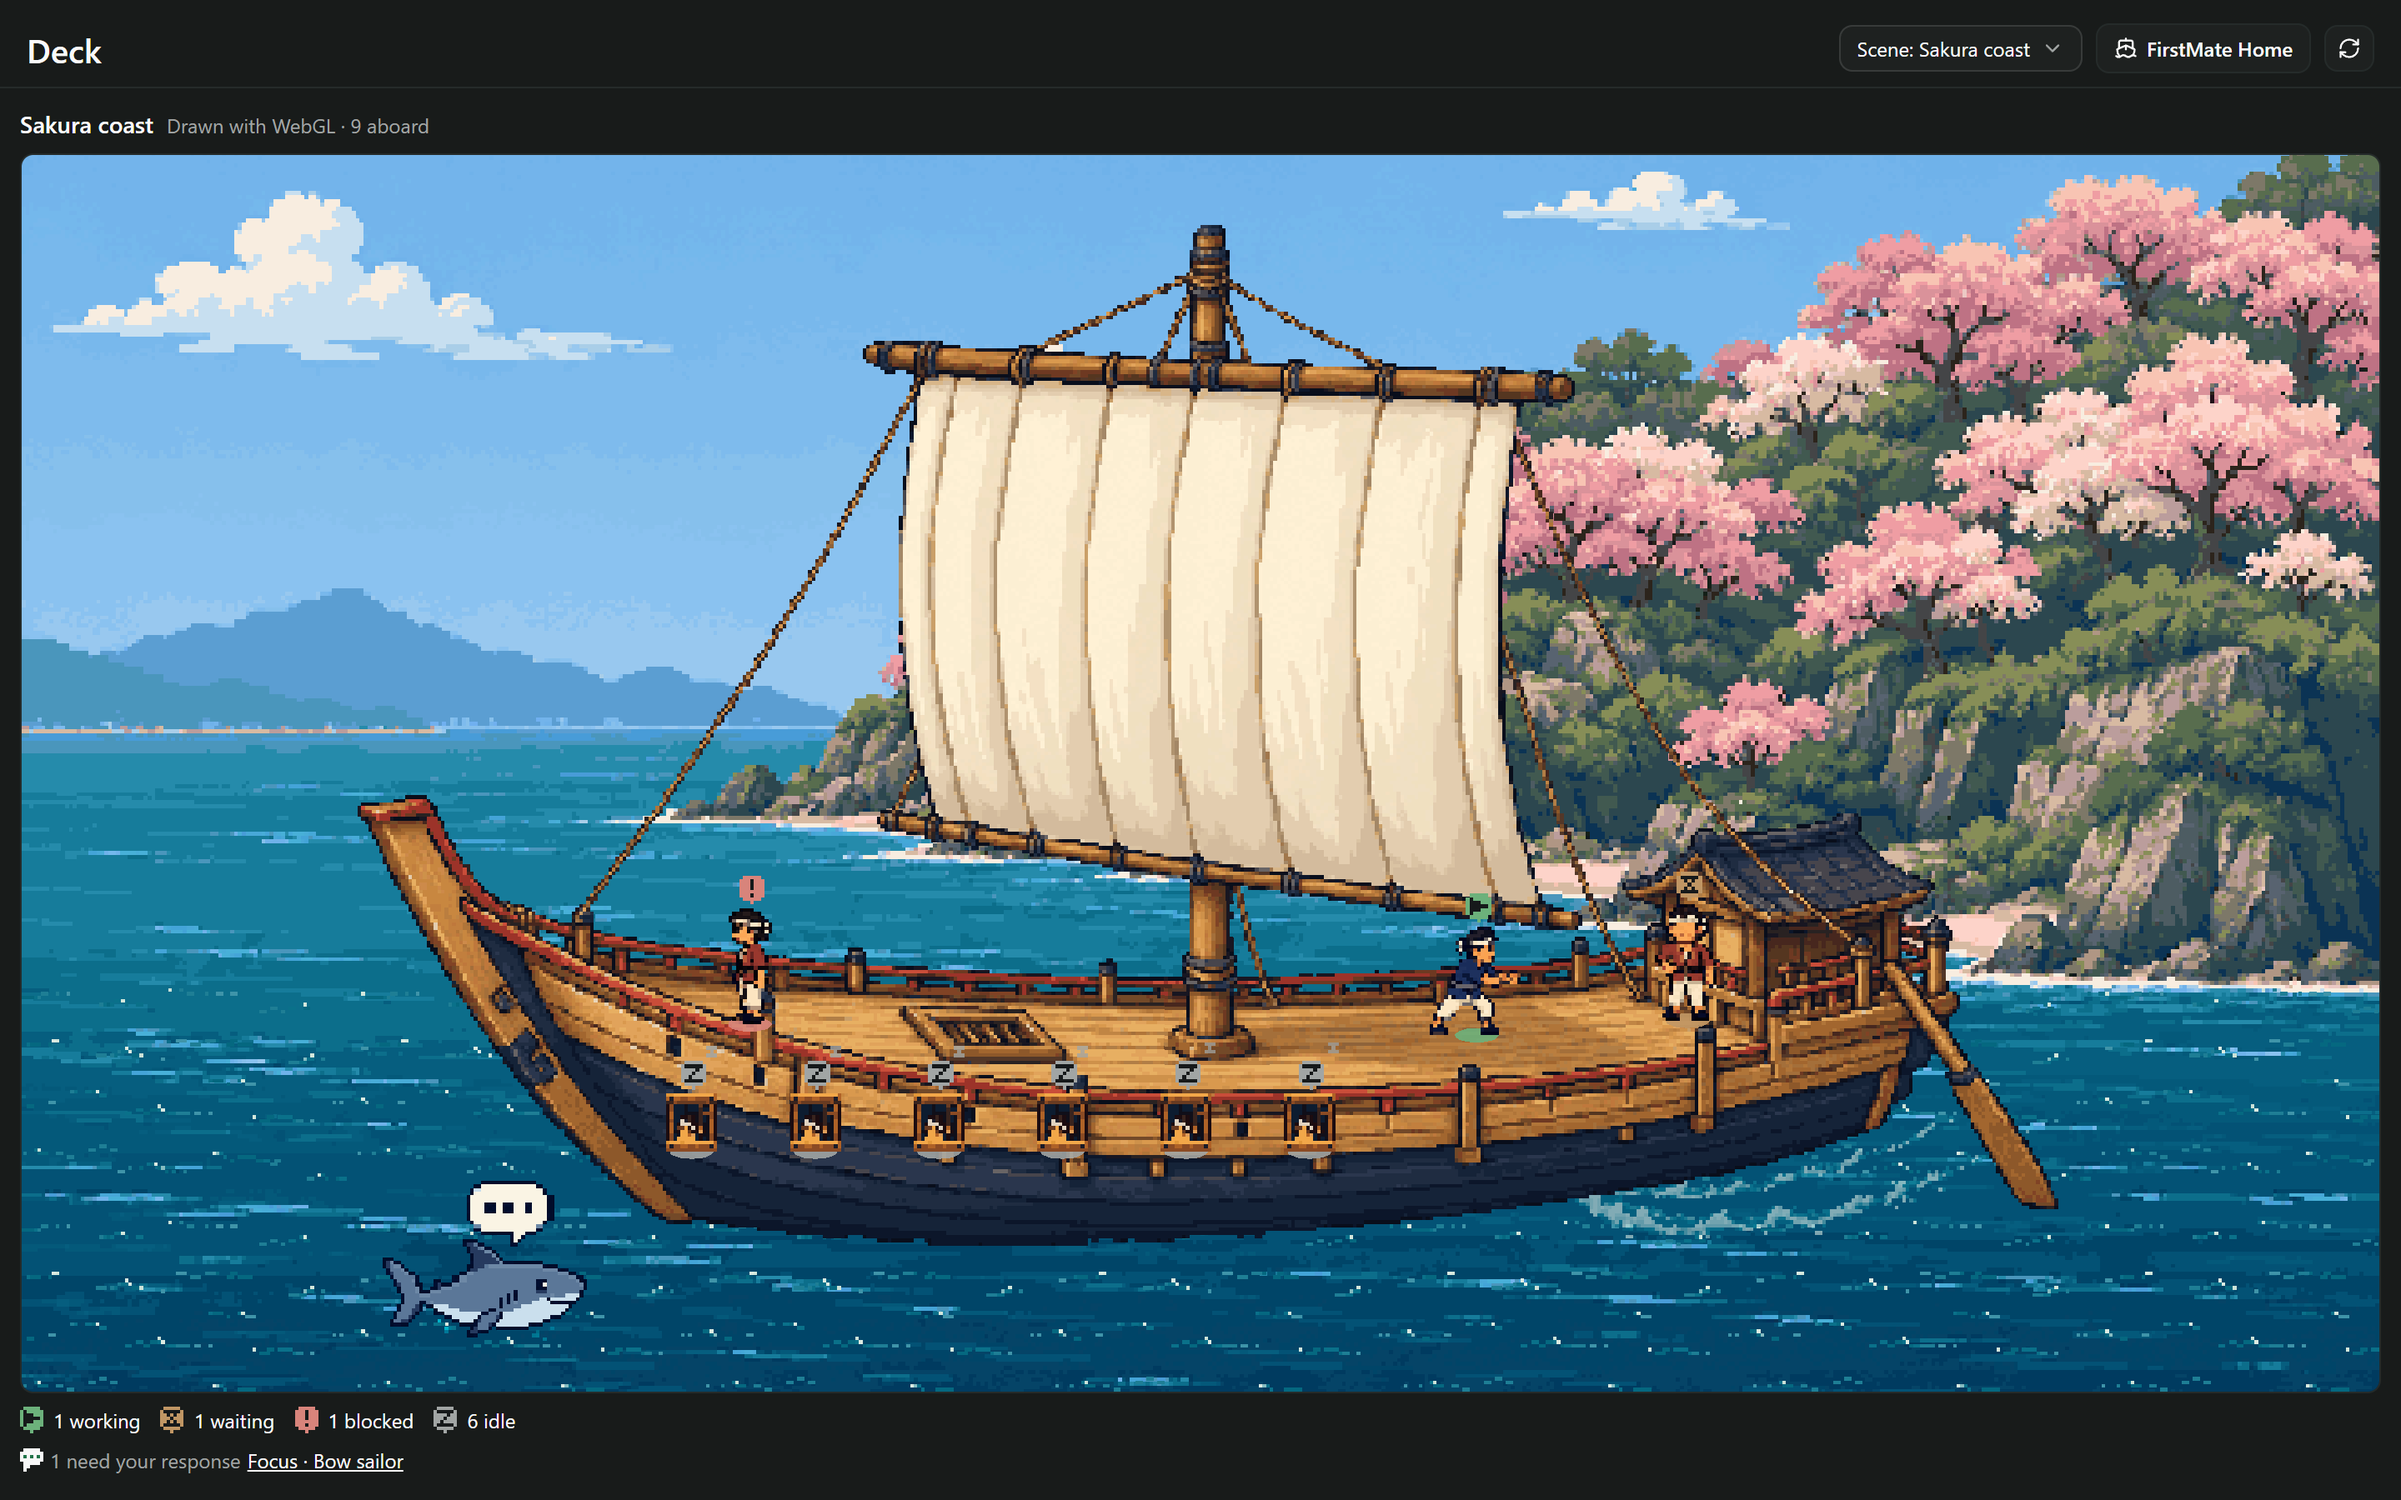
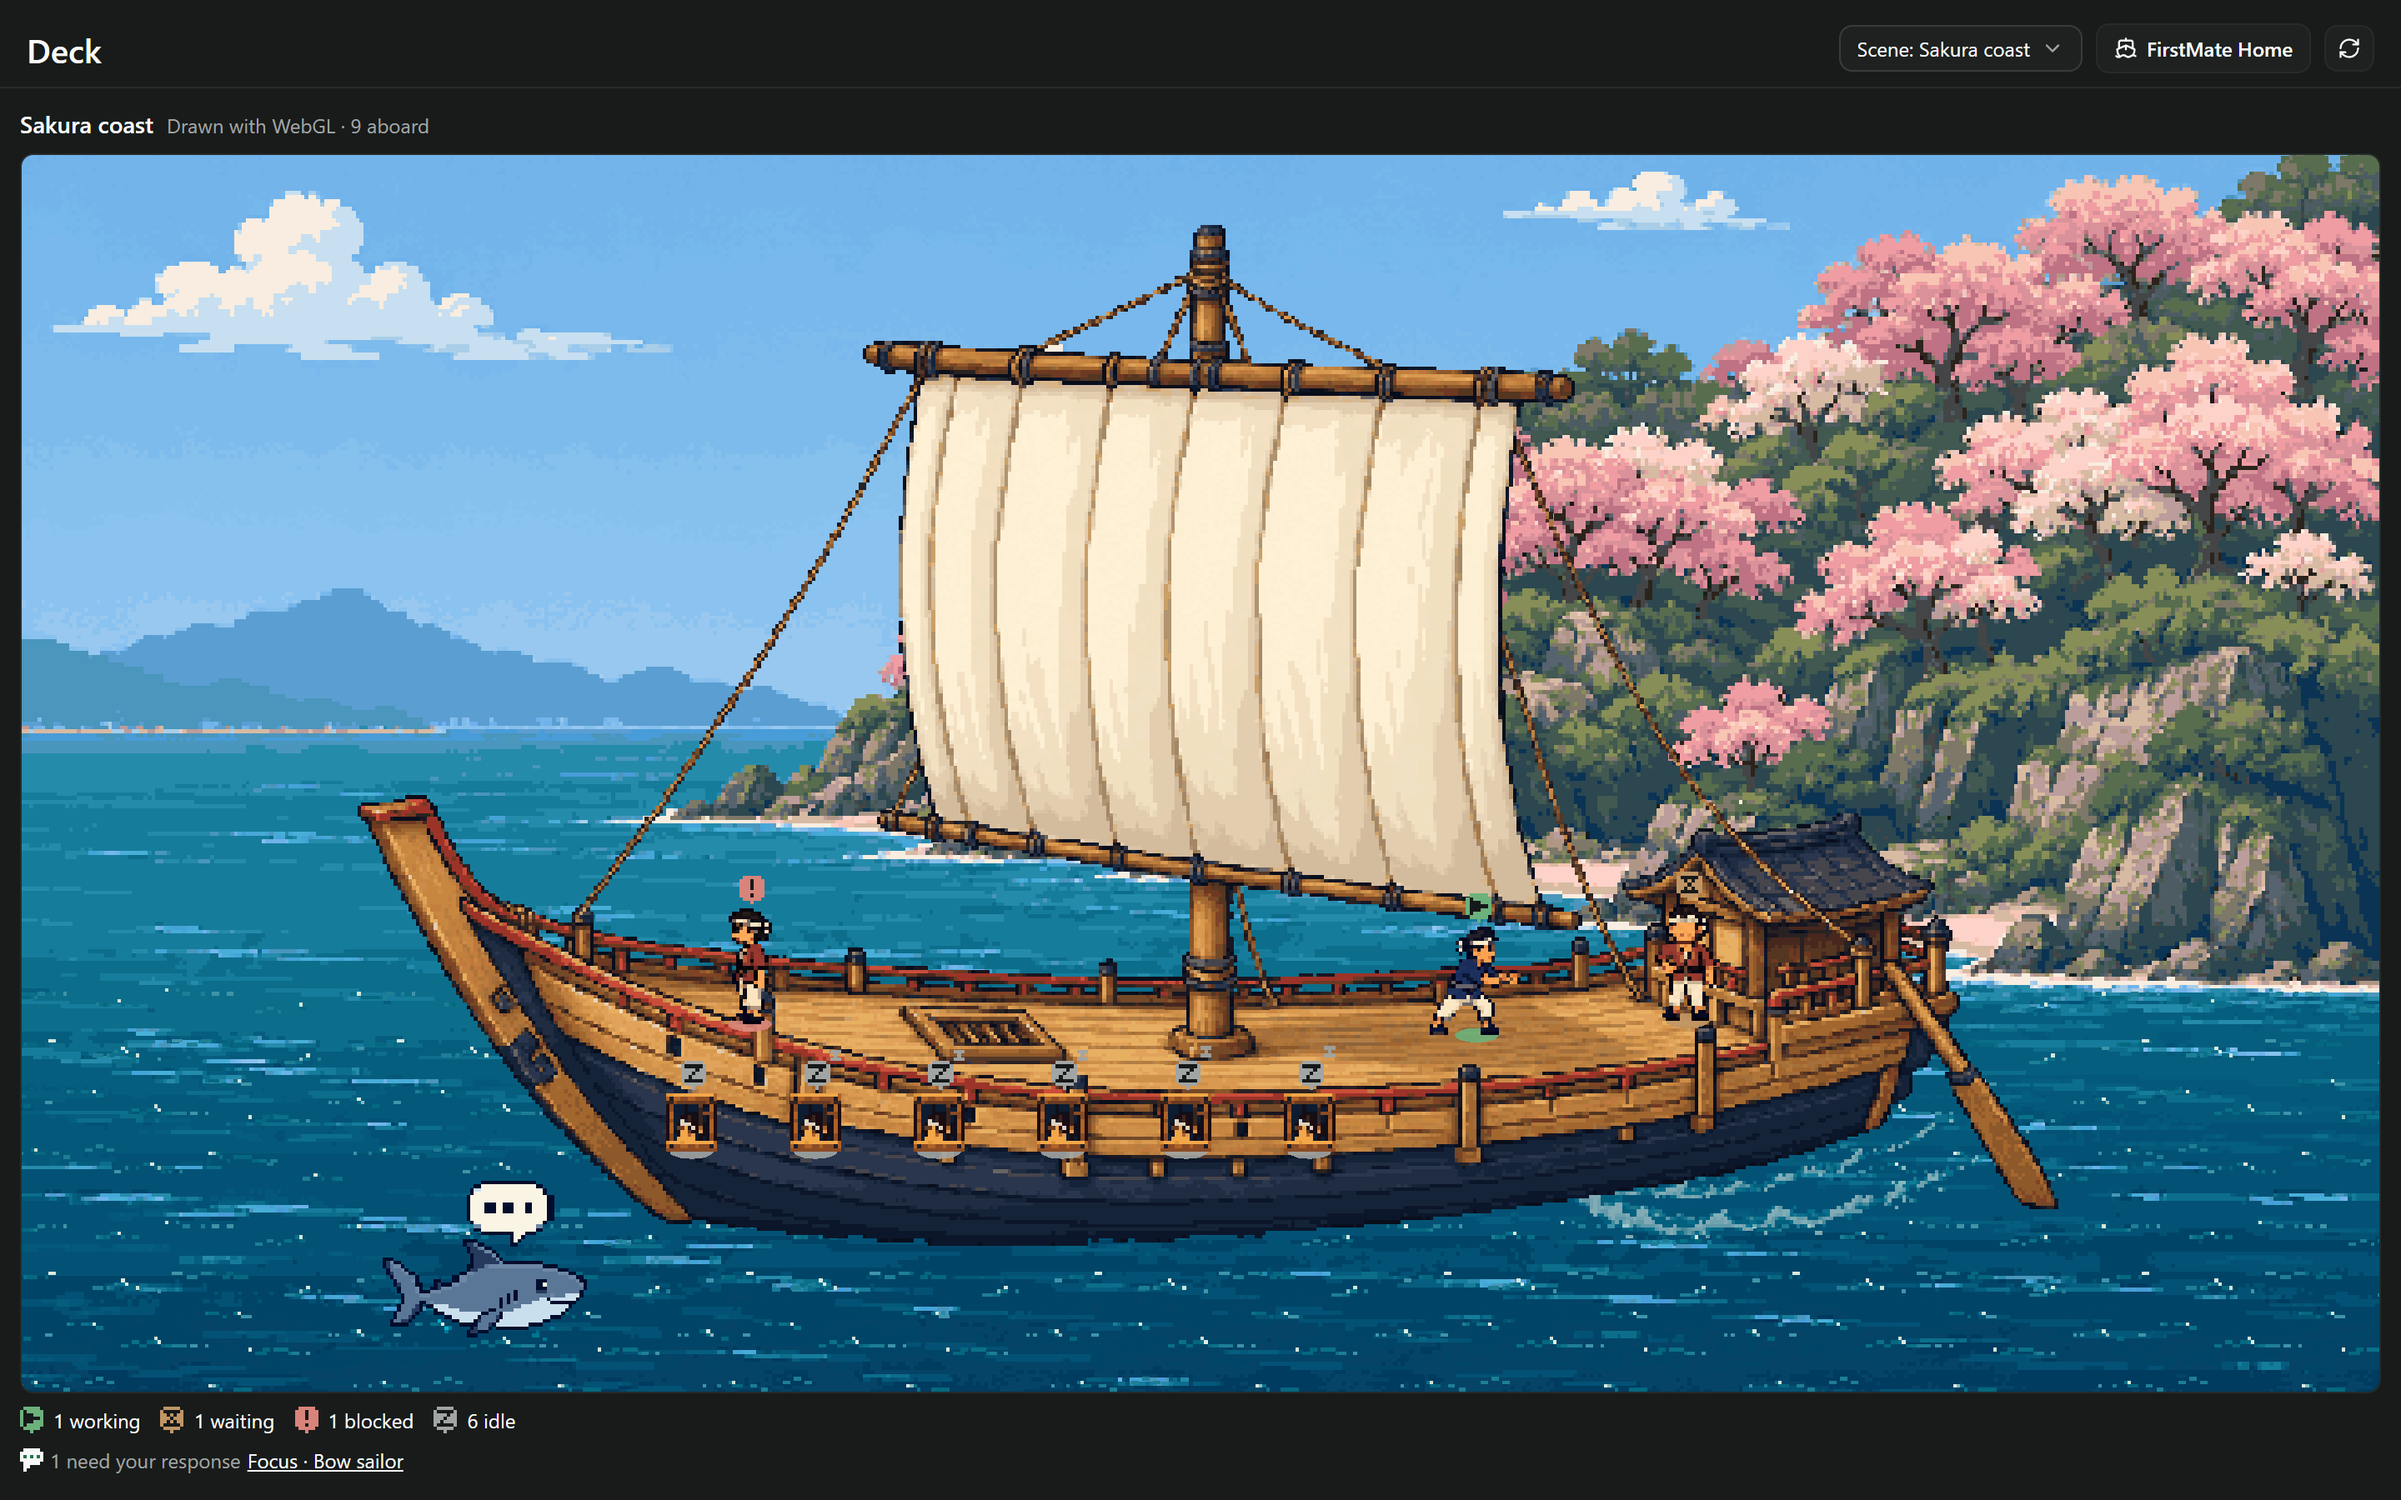
Refresh scene validation against current main

diff --git a/docs/settings/japanese-ship/README.md b/docs/settings/japanese-ship/README.md
@@ -100,7 +100,7 @@ The first art build can omit the optional preview until a day render exists.
 Rebuild art and manifest after changing the reviewed day composition. No test or
 preview command installs the plugin or modifies the live daemon.
 
-The ship gate compares all 81 full interface captures against main `87c26d2`,
+The ship gate compares all 81 full interface captures against main `e7abadd`,
 including the condensed footer. This addition expects **zero changed pixels**:
 `docs/deck-settings/expected-changes.json` has an empty shot map. Historical shark
 and ladder evidence remains preserved in its own reviews.
@@ -114,5 +114,5 @@ Typecheck, all 1,091 tests in 90 files (three existing skips), and all 51 pack-l
 checks pass. [validation.json](validation.json) records the protected-file audit and
 byte-identical client bundles; [compile-results.json](compile-results.json) records
 Paseo compilation, zero bundle growth, and Hermes parsing. The bundle contains no
-`class` tokens. The compiler and gate pin pack revision `b61a32f`; the following
+`class` tokens. The compiler and gate pin revision `ec1ec52`; the following
 evidence commit changes documentation only.
